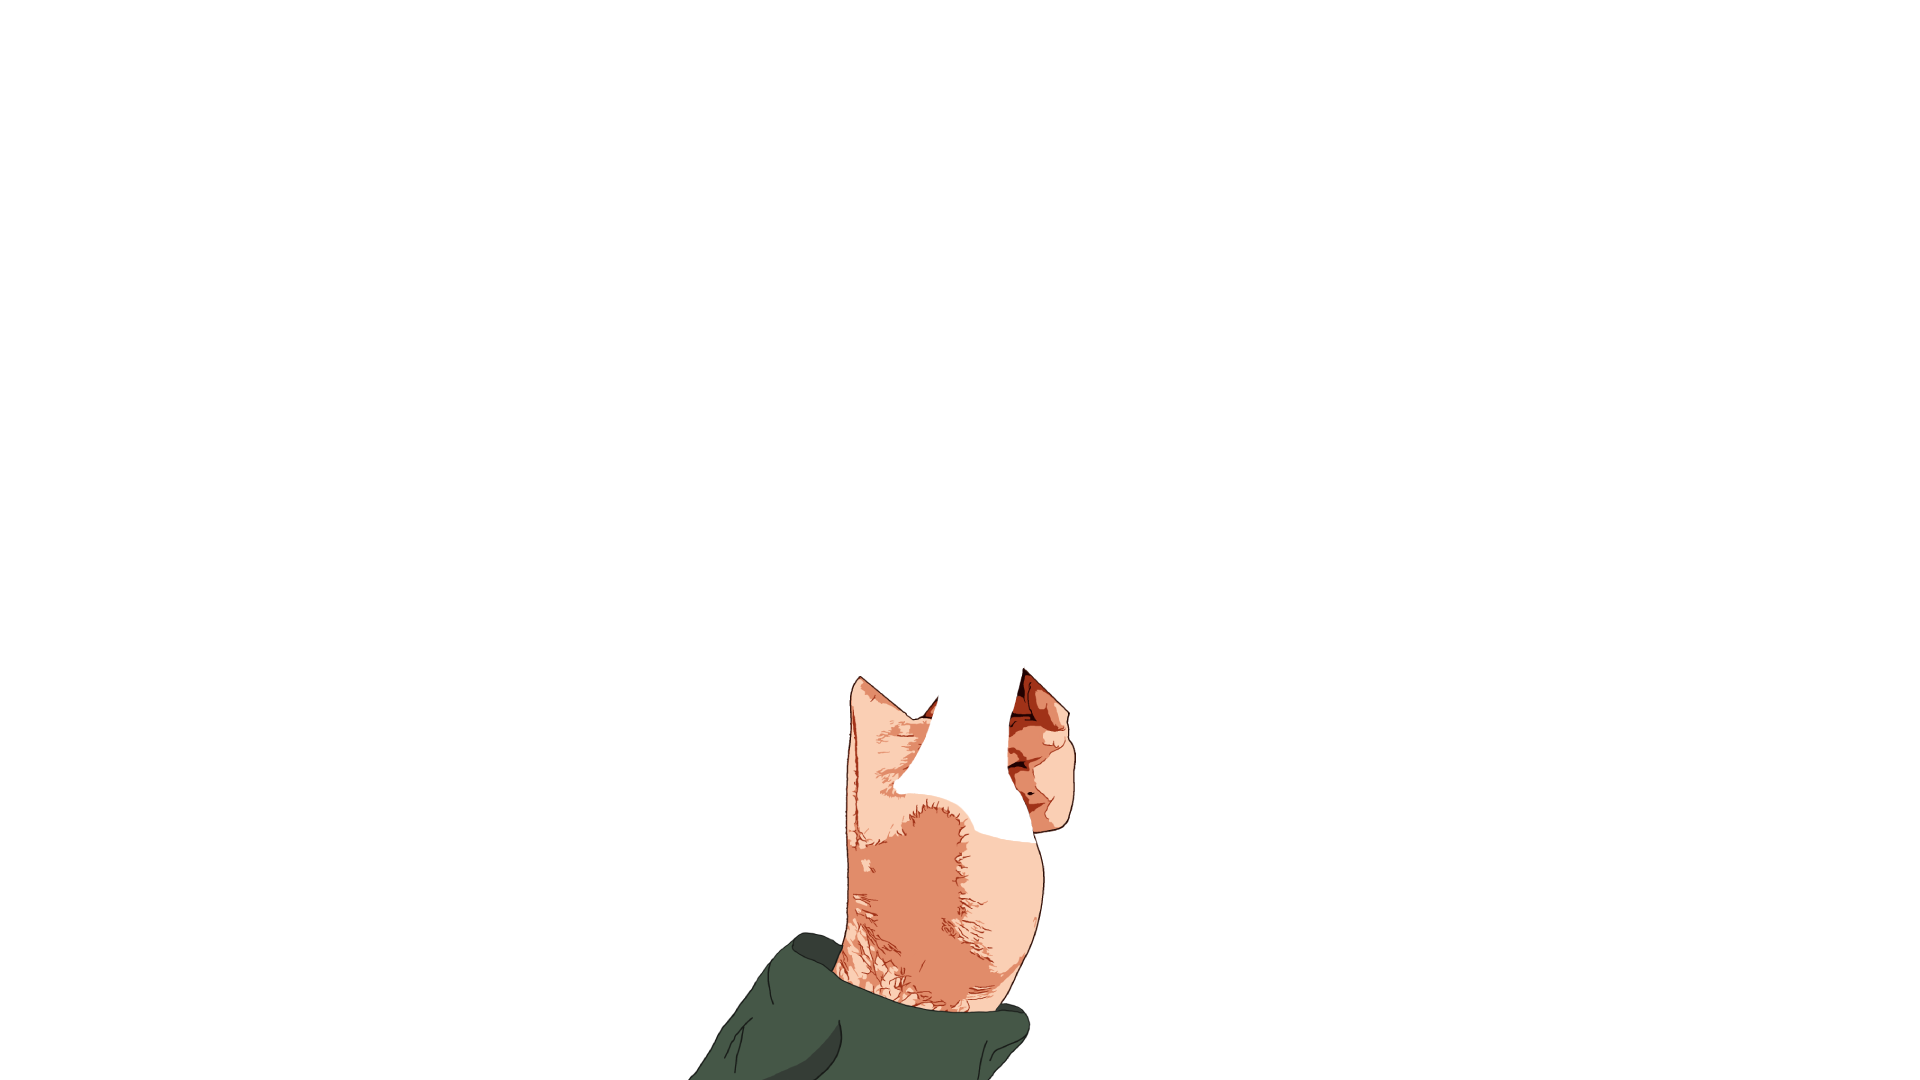
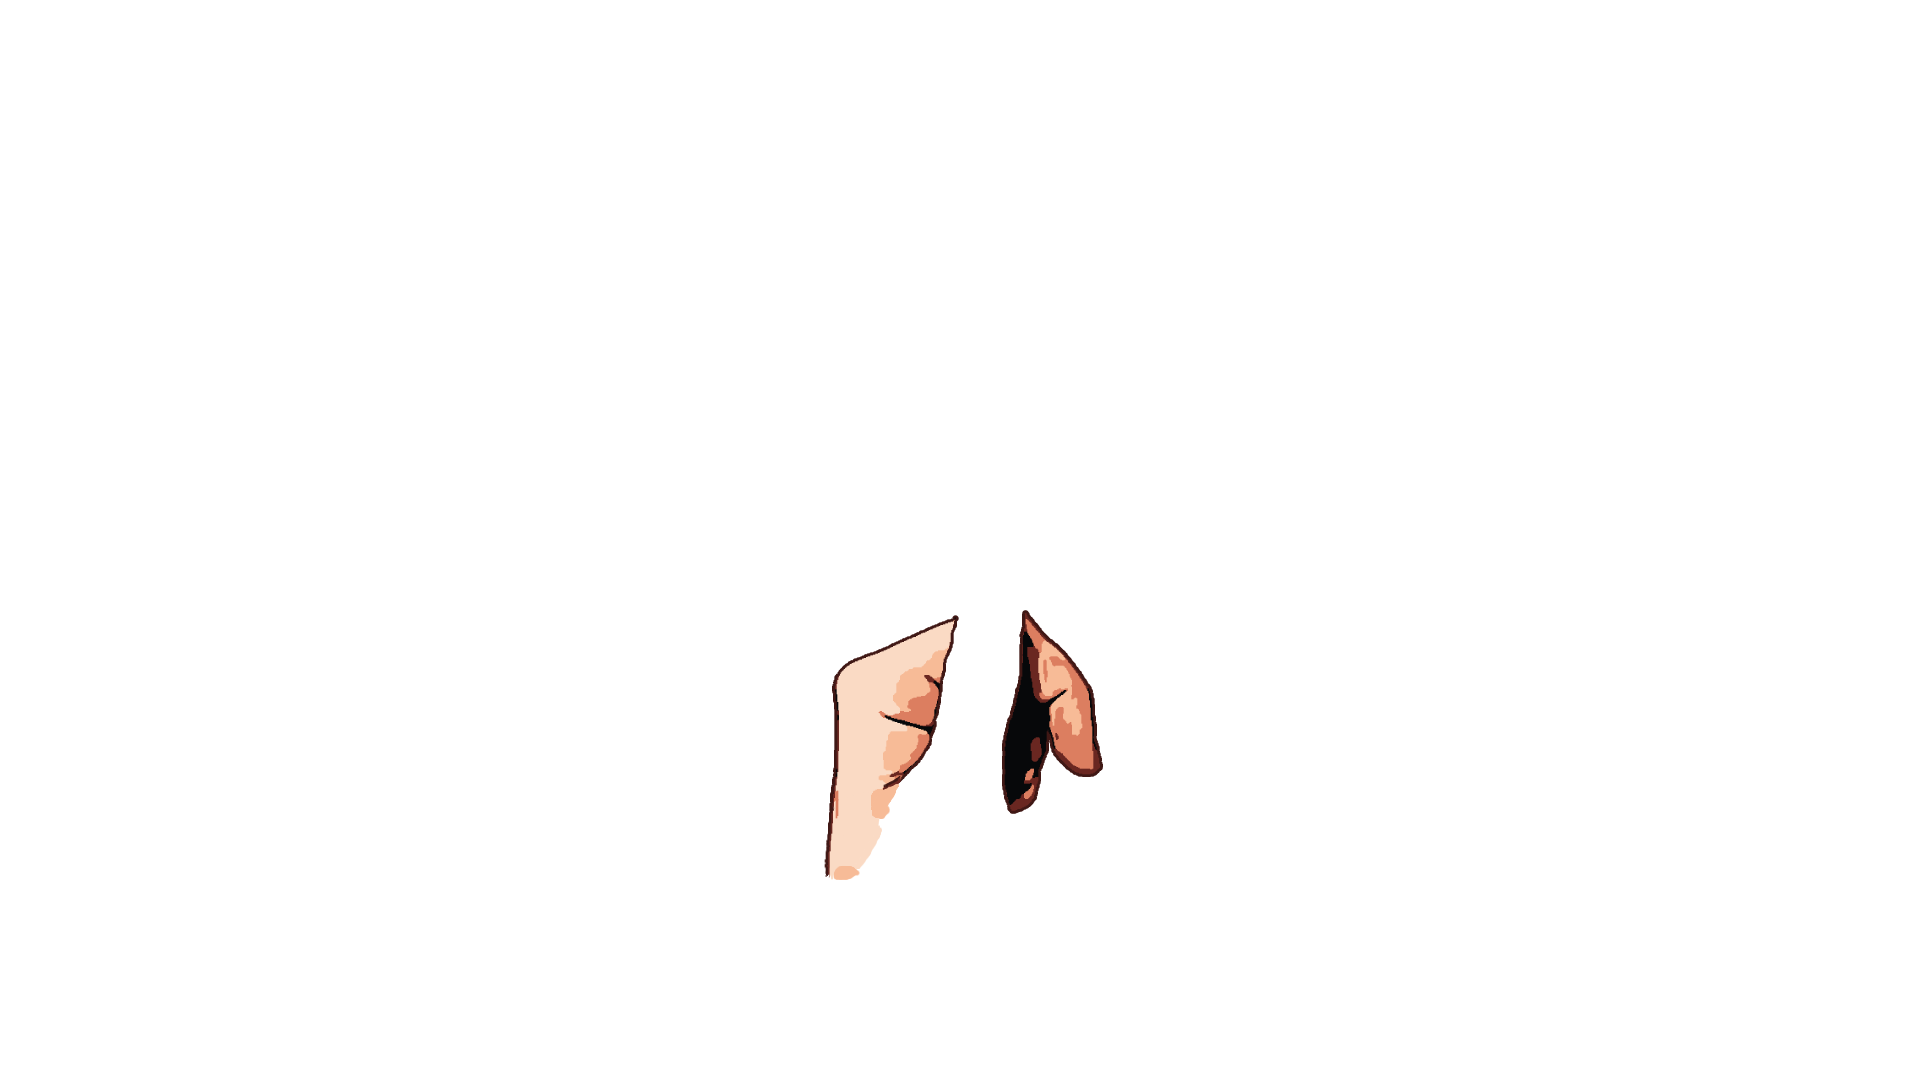
Updated selectduelist hand art, implemented a scenestack for better navigation

Changed region(s): [[0.3438, 0.55, 0.5938, 1.0]]

diff --git a/client/src/hooks/PistolsContext.tsx b/client/src/hooks/PistolsContext.tsx
@@ -42,7 +42,7 @@ export const initialState = {
   currentDuel: 0n,
   currentScene: undefined as SceneName,
   tutorialLevel: undefined as DuelTutorialLevel,
-  lastScene: undefined as SceneName,
+  sceneStack: [] as SceneName[],
   moves: {} as StoredMoves,
   // injected
   connectOpener: null as Opener,
@@ -57,6 +57,7 @@ export const initialState = {
 const PistolsActions = {
   SET_SIG: 'SET_SIG',
   SET_SCENE: 'SET_SCENE',
+  POP_SCENE: 'POP_SCENE',
   SET_DUEL: 'SET_DUEL',
   SELECT_DUEL: 'SELECT_DUEL',
   SELECT_DUELIST_ID: 'SELECT_DUELIST_ID',
@@ -77,6 +78,7 @@ type PistolsContextStateType = typeof initialState
 type ActionType =
   | { type: 'SET_SIG', payload: bigint[] }
   | { type: 'SET_SCENE', payload: SceneName }
+  | { type: 'POP_SCENE', payload: null }
   | { type: 'SET_DUEL', payload: bigint }
   | { type: 'SELECT_DUEL', payload: bigint }
   | { type: 'SELECT_DUELIST_ID', payload: bigint }
@@ -133,8 +135,30 @@ const PistolsProvider = ({
         break
       }
       case PistolsActions.SET_SCENE: {
-        newState.lastScene = state.currentScene
-        newState.currentScene = action.payload as SceneName
+        const newScene = action.payload as SceneName
+        
+        // For Tavern and Gate, reset stack to just that scene
+        if (newScene === SceneName.Tavern || newScene === SceneName.Gate) {
+          newState.sceneStack = [newScene]
+        } else {
+          // Check if scene already exists in stack
+          const existingIndex = state.sceneStack.indexOf(newScene)
+          if (existingIndex !== -1) {
+            // If exists, remove everything after it
+            newState.sceneStack = state.sceneStack.slice(0, existingIndex + 1)
+          } else {
+            // Otherwise add new scene to stack
+            newState.sceneStack = [...state.sceneStack, newScene]
+          }
+        }
+        newState.currentScene = newScene
+        break
+      }
+      case PistolsActions.POP_SCENE: {
+        if (state.sceneStack.length > 1) {
+          newState.sceneStack = state.sceneStack.slice(0, -1)
+          newState.currentScene = newState.sceneStack[newState.sceneStack.length - 1]
+        }
         break
       }
       case PistolsActions.SET_DUEL: {
@@ -307,6 +331,13 @@ export const usePistolsContext = () => {
     })
   }, [dispatch])
 
+  const __dispatchSceneBack = useCallback(() => {
+    dispatch({
+      type: PistolsActions.POP_SCENE,
+      payload: null,
+    })
+  }, [dispatch])
+
   const __dispatchResetValues = useCallback(() => {
     dispatch({
       type: PistolsActions.RESET_VALUES,
@@ -317,6 +348,7 @@ export const usePistolsContext = () => {
   return {
     ...state,
     hasSigned: (state.walletSig.sig > 0n),
+    lastScene: state.sceneStack[state.sceneStack.length - 2],
     // PistolsActions,
     dispatch,
     dispatchSetSig,
@@ -329,6 +361,7 @@ export const usePistolsContext = () => {
     dispatchSetMoves,
     makeStoredMovesKey,
     __dispatchSetScene, // used internally only
+    __dispatchSceneBack, // used internally only
     __dispatchResetValues,  // used internally only
     dispatchSetTutorialLevel,
   }
@@ -393,7 +426,7 @@ type SceneSlug = {
   duelId?: BigNumberish,
 }
 export const usePistolsScene = () => {
-  const { currentScene, lastScene, selectedDuelId, currentDuel, dispatchSetDuel, __dispatchSetScene, __dispatchResetValues } = usePistolsContext()
+  const { currentScene, sceneStack, selectedDuelId, currentDuel, dispatchSetDuel, __dispatchSetScene, __dispatchSceneBack, __dispatchResetValues } = usePistolsContext()
   const { tableId, isSeason, isTutorial } = useTableId()
 
   const location = useLocation()
@@ -423,12 +456,36 @@ export const usePistolsScene = () => {
     __dispatchSetScene(newScene)
   }, [location.pathname, navigate, selectedDuelId, tableId, isSeason])
 
+  const dispatchSceneBack = useCallback(() => {
+    if (sceneStack.length > 1) {
+      const prevScene = sceneStack[sceneStack.length - 2]
+      let route = sceneRoutes[prevScene]
+      let url = route.baseUrl
+      let slug = ''
+      if (route.hasTableId) {
+        slug = tableId && !isSeason ? tableId : ''
+      } else if (route.hasDuelId) {
+        slug = `${bigintToDecimal(currentDuel)}`
+      }
+      url += slug ? `/${slug}` : ''
+      if (url != location.pathname) {
+        console.log(`navigate back >>>>> [${location.pathname}] > [${url}]`)
+        navigate(url)
+      }
+      __dispatchSceneBack()
+    } else {
+      // If no previous scene, go to tavern
+      __dispatchSetScene(SceneName.Tavern)
+    }
+  }, [sceneStack, location.pathname, navigate, tableId, isSeason, currentDuel])
+
   const sceneTitle = useMemo(() => (sceneRoutes[currentScene]?.title ?? 'Pistols at Dawn'), [currentScene])
 
   return {
     currentScene,
-    lastScene,
-    wasLastSceneTutorial: tutorialScenes.includes(lastScene as typeof tutorialScenes[number]),
+    sceneStack,
+    lastScene: sceneStack[sceneStack.length - 2],
+    wasLastSceneTutorial: tutorialScenes.includes(sceneStack[sceneStack.length - 2] as typeof tutorialScenes[number]),
     sceneTitle,
     // helpers
     atGate: (currentScene == SceneName.Gate),
@@ -448,6 +505,7 @@ export const usePistolsScene = () => {
     atTutorialScene5: (currentScene == SceneName.TutorialScene5),
     // PistolsActions,
     dispatchSetScene,
+    dispatchSceneBack,
   }
 }
 

diff --git a/client/src/components/ui/Buttons.tsx b/client/src/components/ui/Buttons.tsx
@@ -278,13 +278,13 @@ export function SettingsMenuItem({
 }
 
 export function BackButton() {
-  const { dispatchSetScene, atDoor } = usePistolsScene();
+  const { dispatchSetScene, atDoor, dispatchSceneBack } = usePistolsScene();
 
   const handleClick = () => {
     if (atDoor) {
       dispatchSetScene(SceneName.Gate);
     } else {
-      dispatchSetScene(SceneName.Tavern);
+      dispatchSceneBack();
     }
   }
 

diff --git a/client/src/components/Menus.tsx b/client/src/components/Menus.tsx
@@ -14,10 +14,10 @@ export function MenuDuel({
 }) {
   const { dispatchSetting, settings, SettingsActions } = useSettings()
   const { dispatchSetDuel } = usePistolsContext()
-  const { dispatchSetScene } = usePistolsScene()
+  const { dispatchSceneBack } = usePistolsScene()
 
   const _backToTavern = () => {
-    dispatchSetScene(SceneName.Tavern)
+    dispatchSceneBack()
     dispatchSetDuel(0n)
   }
 
